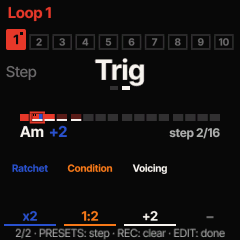
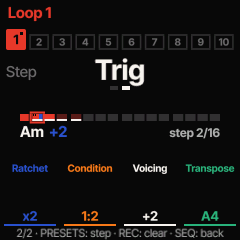
Docs: the loop editor while it plays, Transpose, the voicing's snap, the held ratchet (LOOPER, MANUAL, INTEGRATION, the 0.18 notes, HISTORY, the editor's two pictures)

Changed region(s): [[0.0583, 0.875, 0.9917, 1.0], [0.7583, 0.6708, 0.9917, 0.7292]]

diff --git a/docs/LOOPER.md b/docs/LOOPER.md
@@ -314,9 +314,9 @@ version 1, and 0.14 .. 0.17 read an edited loop's record as any other (`tests/cr
 | EDIT tap in the PLAY menu | opens it (`cr_loop_ed_open`), **at any Quantize setting** (the first build refused a loop with Quantize none: `set Quantize to edit`). Refused: a slot switch on its way (`a slot is on its way`); a capture open (`end the take first`). An empty slot: an empty pattern of the set Length (Free: a bar, 16 steps; more than 64 steps: its first whole bars within 64), which is the slot empty again if nothing is entered |
 | PRESETS | the **step cursor**, a step a detent, wrapping at the loop's end (`cu_ledit_move`). **GLO held + PRESETS**: 8 steps a detent, wrapping the same way. Never the slot, never the chord sound, while the editor is open. (Until 2026-10-13 the cursor was SELECT and KNOB 1) |
 | SELECT | the editor's **page**, clamped: 1 **Step**, 2 **Trig** (`cu.le_page`, the first whenever it opens). The page's name stands where the record mode does, with the picker's two marks; the bottom line begins `1/2` / `2/2` |
-| ALGORITHM | the selected step's **voicing**, on both pages (the same value as Trig's KNOB 3; on the Step page, which has no cell for it, the message `step voicing: +2`) |
+| ALGORITHM | the selected step's **voicing**, on both pages (the same value as Trig's KNOB 3; on the Step page, which has no cell for it, the message `step voicing: +2`). **GLO held + ALGORITHM** (or + Trig's KNOB 3) **snaps between Follow and 0** (2026-10-11, the owner: "below -12 is fine, but let's make it so you can hold GLO key and turn voicing to snap to Follow or 0"): from Follow a turn either way gives 0, from 0 a turn either way gives Follow; from any other value clockwise gives 0, the other way Follow; one snap a turn event, however fast the knob (`cu_ledit_voic`'s `snap`). GLO + ALGORITHM is the bass level everywhere else: **not inside the editor**, where the snap takes its place (the bass level: the BASS layer, or GLO + ALGORITHM outside the editor) |
 | OCT- / OCT+ | the **octave**, exactly as on the view (the popup, -2 .. +2): what is played into a step next is entered there. They closed the editor until 2026-10-13 |
-| the keys | they play, as on the view (auditioned by the chord engine). A gesture's end writes its chord INTO the selected step, replacing its notes: the first key of a new push (no gesture open) clears, the keys of one push add up (`crl_ed_write`, `ed_w`). **By side** (3y9's rule): a bass-side note (Split Bass) replaces the step's bass-side notes, anything else the chord side. The new notes start on the step's tick and are **as long as the step's notes were** (one step on an empty step) |
+| the keys | they play, as on the view (auditioned by the chord engine). A gesture's end writes its chord INTO the selected step, replacing its notes: the first key of a new push (no gesture open) clears, the keys of one push add up (`crl_ed_write`, `ed_w`). **By side** (3y9's rule): a bass-side note (Split Bass) replaces the step's bass-side notes, anything else the chord side. The new notes start on the step's tick and are **as long as the step's notes were** (one step on an empty step). **Only what the player plays is written, while the loop plays as when it is stopped** (below, "What goes into a step") |
 | | **The cursor stays on the step** (it does not advance as Step entry does; an Elektron's grid recording stays on the selected trig too): an editor's step is tried, heard and tried again. PRESETS moves on |
 | REC tap | clears the selected step (`cr_loop_ed_clear`): its notes and its ratchet, condition, chance and voicing. No recording in the editor |
 | **page 1 "Step"** | |
@@ -327,14 +327,73 @@ version 1, and 0.14 .. 0.17 read an edited loop's record as any other (`tests/cr
 | **page 2 "Trig"** | |
 | KNOB 1 | **Ratchet**: Off, x2, x3, x4 |
 | KNOB 2 | **Condition**: Always; 1:2, 2:2; 1:3, 2:3, 3:3; 1:4, 2:4, 3:4, 4:4; 1st; not 1st |
-| KNOB 3 | **Voicing**: Follow, -12 .. +12 (as ALGORITHM) |
-| KNOB 4 | nothing |
+| KNOB 3 | **Voicing**: Follow, -12 .. +12 (as ALGORITHM; GLO held: Follow / 0) |
+| KNOB 4 | **Transpose** (2026-10-11): the selected step's notes a semitone a detent, up or down (`cr_loop_ed_transpose`; below, "Transpose") |
 | LOOP tap | play / stop from the loop's start, as ever; the cursor does not follow the playback, the playhead shows it. A length changed under the playhead: the playhead where it is in the new cycle (`crl_ed_renorm`) |
 | REC held | the looper's undo, as outside (below) |
-| GLO tapped | nothing (the keys play; GLO held is the shift of PRESETS and Steps above) |
+| GLO tapped | nothing (the keys play; GLO held is the shift of PRESETS, Steps and the voicing above) |
 | SEQ / EDIT tapped, EDIT or SEQ held again | close it, back to the PLAY menu (`cr_loop_ed_close`), however it was opened: nothing to confirm, an edit is applied when it is made. A knob turned while EDIT or SEQ is still down after closing it by the hold does nothing (it would be the PLAY menu's: PRESETS there is the slot). **No METRO layer from the editor**: SEQ held there closes it, and SEQ held + a knob inside the hold time leaves the knob the editor's (`cu_activity`; `tools/emu/scripts/cr_seq.txt`) |
 | **LOOP held** | the PLAY menu: the editor closes, the menu stays (the owner, 2026-10-11: "from the Sequencer, holding the play key should enter the Play Menu, not return to home"; until then it closed the menu with the editor). A knob turned with LOOP still down is the menu's (PRESETS: the slot), never the sound's. A LOOP tap is play / stop as ever, the editor stays |
 | HOME | the view: the editor and the menu close (it went back to the PLAY menu until 2026-10-11; with SEQ's cycle HOME is "home" here as everywhere). Another layer, a revert: the same |
+
+### What goes into a step, and what the screen names (2026-10-11)
+
+The owner, with the editor on the unit: "In the sequencer if playback is going on then when I enter keys to a selected
+step, it also ends up combining the playing notes into that step. In this case it should only enter the keys I'm
+playing, not the notes playing from the sequence. Also the name of the chord changes during playback, I would like this
+to always show chord/notes of the selected step. Then during playback in the sequencer, show the name of the playing
+step chord/notes to the left of the Page Name (don't offset the page name, also don't show voicing here since that
+would overlap the page name probably) in blue."
+
+- **The loop's own notes cannot reach a step.** The editor writes what the engine's gesture hook reports
+  (`cr_out_t.gesture` -> `cr_loop_gesture` -> `crl_ed_write`), and that hook is raised for keyed voices only: a loop
+  voice never raises it (`crx_gesture`: `v->loop`), and MIDI in plays the parts, not the chord engine. So a chord held
+  over the loop's chords and let go is in the step alone (`tests/cr_loop_test.c s_edkeys`, `cr_loop_edplay.txt`).
+- **What did reach it: a latched chord.** With LATCH (Sticky) or a Perform mode's Hold a chord does not end when its
+  keys go up: it sounds on over the loop until the next press. The editor wrote a chord at its END, so with a latch
+  the chord just played was not in the step; it arrived a press later, in whichever step was selected by then: a step
+  got the chord that was still sounding, not the keys being played, and the keys being played went into the step
+  after. **Now the engine says when a latched gesture's keys are up** (`CR_G_KEYUP`, a third value of the hook's `on`,
+  from `cr_key_ex`'s release) **and the editor writes the step then**, as at an unlatched key's release; the later end
+  of that chord writes nothing (`open[].used` 2), and the next push replaces as ever. A take is not touched: it
+  records a latched chord with the length it sounded. Nothing of the sound changes: the hook only reports.
+- **Checked and left as they are**: Split Bass (a bass-side key replaces the step's bass side only, by 3y9's rule);
+  LOCK with latched chord keys (a root alone is one chord in the step); the arp running (the gesture is the chord, not
+  the arp's notes). **Free play style**: a chord key pressed with no root held re-sounds the last root (the style's
+  own rule), and that chord is a gesture like any other: it is written, and a root pressed while it sounds adds to
+  the same push. That is what was played and heard; it is not changed here.
+- **The name line** (the chord under the grid, its blue voicing, `step n/m`) **is the selected step's, playing or
+  stopped**: a chord by its name, a single note or a bass-side note by its note, several things in one step by the
+  last one written, an empty step `-`. **While a root key is down** it names the chord being played instead (the
+  player's own voice: `cr_snap.pl_*`, the last keyed voice still sounding), and goes back to the step when the keys
+  are up, a latch or not. Until then it showed the engine's "chord on display" unless that was a loop voice's: with a
+  key held over a playing loop it flipped between the played chord and the step's old one at every loop note, and
+  with a latched chord it showed that chord between the loop's notes.
+- **The playing name**: while the loop plays, **the chord or the note the loop struck last, in the role blue, at the
+  left of the page's name** (`cr_screen_t.lm_now`, `cr_draw.c cr_lm_now`). The page's name ("Step" / "Trig") does not
+  move; no voicing. Left-aligned at x 6 on the neighbours' baseline, 78 px wide at most: "Step", the wider name, begins
+  at x 90, so 6 px stay clear. Bold, the largest of 13 / 11 / 10 px that fits: 13 px for nearly all names, 11 px for
+  about one in twenty, 10 px for the few longest (`G#madd4 JAZZ`: 95 px at 13, 73 at 10): none is cut. On the Trig
+  page it stands where the left neighbour ("Step") is, which is not drawn while a name shows; the two marks under the
+  page's name still show the pages. While the page's name slides (160 ms after SELECT) it is not drawn.
+  **What it names is what sounded** (`cr_loop_t.hit_root / hit_qx`, set in `crl_hit`): a step its condition or chance
+  kept silent does not change it; of a step with several things the last one struck (the name line's rule). **It
+  stays until the next step that sounds** (a chord alone in a bar would otherwise flash for a sixteenth, at Rate x4 for
+  31 ms), is empty before the loop's first note and gone when the loop stops. Cost: three byte stores a hit in the
+  ISR; the screen hashes `lm_now` apart and a new name redraws one strip (rows 40 .. 79), on top of the grid's rows the
+  playhead redraws at every step anyway.
+
+**Transpose** (Trig's KNOB 4; the owner: "this should move all the notes up or down, so if my chord is C maj and I
+transpose it up one, now it's a C# maj"). An edit of the SELECTED step: each detent moves every note that starts in it
+(chord roots, single notes, bass-side notes) a semitone, by rewriting the events' roots; nothing new is stored and
+nothing else moves (the quality, the extensions, the part, the times, the lengths, the step's four properties, the
+other steps). **Chromatic, whatever Key Mode says**: the loop's roots are stored absolute, and this is an edit of
+stored notes, not a way of playing them. **The range is 0 .. 127 for every note of the step**: a detent that would
+take one of them out is refused whole, no note moves and nothing wraps (`no higher` / `no lower`); a fast turn goes as
+far as it can. The cell shows the root note of the step's name with its octave (`C#4`), and while it is hot (800 ms)
+how far this turn has moved it (`+2`); an empty step `-`. It is an edit like the others: the first one makes the loop
+one layer, the loop is marked changed, no undo of its own (turn it back; -1 after +1 gives the record byte for byte).
+A note sounding when it is turned ends at its old pitch.
 
 ### Ratchet, condition, chance, voicing (2026-10-13; `crl_data_t.st`, `cr_loop.c crl_play_ev`)
 
@@ -345,8 +404,16 @@ can be set); clearing a step clears them; replacing a step's notes keeps them.
 
 - **Ratchet** (x2, x3, x4): the step's notes strike that many times, evenly inside ONE step (12, 8, 6 ticks apart).
   Each hit is as long as the slice; if Note len is a part of a step, that part of the slice (x2 on a 1/2-step note:
-  two hits of 6 ticks, 12 apart; never under a tick). A note longer than a step ratchets inside its own step and is
-  silent after it: a ratchet replaces the note's length.
+  two hits of 6 ticks, 12 apart; never under a tick). **A note longer than a step: the last hit holds to the note's
+  end** (2026-10-11; the owner: "if length is greater than one step, the last trig of ratchet then holds for the
+  length. So if ratchet is 2 and step length is 2, the sequence would be note of length 0.5, then after that a note of
+  1.5; if the length was 4 and the ratchet was 4, you get 3 notes that are 0.25 length, then the 4th note is a length
+  of 3.25 steps"): the hits before the last are a slice long, the last is Note len less the slices before it (x2 on 2
+  steps: 12 then 36 ticks; x4 on 4: 6, 6, 6 then 78; x3 on 2: 8, 8 then 32). Until then a ratchet replaced the note's
+  length: a long note ratcheted inside its step and was silent after it. Note len of a step or less: as it was. The
+  held last hit sounds over the following steps like any long note (they still play, on their own voices), across
+  the loop's end too, and the grid already shows it: the white bar and the dark cells follow Note len, a ratchet or
+  not.
 - **Condition**: `A:B` plays on pass A of every B passes of the loop, **counted from when the loop starts playing**
   (LOOP from stopped, a take committed into playback, a slot taken at the end of a cycle: pass 1 again); `1st` only on
   the first pass, `not 1st` on every other.
@@ -374,8 +441,11 @@ need 14, and widening `crl_ev_t` would cost 512 x 2 bytes in each of the two cop
 **In the audio ISR** (estimated from the source, not yet counted in the device's disassembly): per event fired, one
 divide by the constant 24 (the step), two table bytes and two tests, about 15 instructions when the step has nothing;
 a condition adds a table word and a shift (no division: the pass is kept mod 12, which 2, 3 and 4 divide); a chance
-adds two multiplies and a compare; a ratchet about 20 once, then each further hit is one `cr_loop_event_v`, the cost
-of any chord's note-on. Per tick, the voices' loop (8) has one more compare for a voice in use. **A ratchet stays on
+adds two multiplies and a compare; a ratchet about 20 once (a subtract and a multiply more since the last hit holds:
+its length is worked out once, when the event fires, and kept in the voice: `pv[].last`), then each further hit is one
+`cr_loop_event_v`, the cost of any chord's note-on. Every hit, a ratchet's or a plain note's: one test and a load
+more for its length (`hits ? gate : last`), and three byte stores for the editor's playing name. Per tick, the voices'
+loop (8) has one more compare for a voice in use. **A ratchet stays on
 its one loop voice** (`pv[].used` 2 = waiting for the next hit, the chord kept in `pv[]` so a hit never reads an event
 that an edit or a slot switch took away): it can never hold more voices than a plain note, and a stop, a clear of the
 step, a Replace cut or a stolen voice ends its hits.
@@ -388,15 +458,14 @@ number for each step's roll. `cr_loop_seed` sets it: the same seed and timing gi
 bar a row, **four rows of 16: all 64 steps at a glance** (3/4 and 6/8: four rows of 12). A step with a note starting
 in it is filled, coloured by its velocity (below); a step a longer note still sounds in (half of it or more) is dark red (`lm_lane[1]`); an empty one grey;
 the grid ends where the loop ends (`lm_steps`). The cursor is the red outline; in the editor its blink is bright /
-dim (`lm_ed`), never gone. What a cell carries is under "The grid's cells" below. While the loop plays, the step being played is white (grey when empty:
-`CR_LM_PLAY` in `lm_pos`; only its rows' strips are redrawn). Under the grid the selected step's chord, big, and `step
-5/16`; the cells Note len / Steps / Chance / Velocity (page 1) or Ratchet / Condition / Voicing (page 2); the bottom
-line `1/2 · PRESETS: step · REC: clear · SEQ: back` (`EDIT: done` until 2026-10-11; both keys go back to the PLAY
-menu, the line names the one that opens the editor from the view: `EDIT/SEQ` does not fit `foot`'s 47 characters). **A take longer than 64 steps is paged**: the cursor walks all its
-
-5/16`, and after the chord the step's voicing in blue when it is not Follow (`Dm7 +3`); the cells Note len / Steps / Chance / Velocity (page 1) or Ratchet / Condition / Voicing (page 2); the bottom
-line `1/2 · PRESETS: step · REC: clear · EDIT: done`. **A take longer than 64 steps is paged**: the cursor walks all its
-steps and the grid shows the 64 the cursor is in (`step 70/128 · p2`); one page was chosen over a scrolling row
+dim (`lm_ed`), never gone. What a cell carries is under "The grid's cells" below. While the loop plays, the step
+being played is white (grey when empty: `CR_LM_PLAY` in `lm_pos`; only its rows' strips are redrawn), and what the loop
+struck last is named in blue at the left of the page's name (above, "The playing name"). Under the grid the selected
+step's chord, big, with its voicing after it in blue when that is not Follow (`Dm7 +3`), and `step 5/16`; the cells
+Note len / Steps / Chance / Velocity (page 1) or Ratchet / Condition / Voicing / Transpose (page 2); the bottom line
+`1/2 · PRESETS: step · REC: clear · SEQ: back` (`EDIT: done` until 2026-10-11; both keys go back to the PLAY menu,
+the line names the one that opens the editor from the view: `EDIT/SEQ` does not fit `foot`'s 47 characters). **A take
+longer than 64 steps is paged**: the cursor walks all its steps and the grid shows the 64 the cursor is in (`step 70/128 · p2`); one page was chosen over a scrolling row
 because a pattern fits it whole, and a page turns only for loops no step sequencer made.
 
 **Layers and undo.** The editor works on what sounds (the live events). Its **first edit makes the loop one layer**
@@ -438,7 +507,7 @@ shrink from 5 and 8 px to 3 and 3 and nothing is cut.
 
 **Cost**: 104 bytes of POOL (`cu_le_map`: 32 before the cells' byte a step; 24 before the notch's map); in RAM the steps' table, 128 bytes in each of the
 two `crl_data_t` (the loop and the staged slot), 64 for the voices' ratchet state and a few bytes of state: 352 in all
-(RAM 80168 -> 80520 B, POOL 326600 -> 326608 B, flash +3520 B on 2026-10-13); the grid's cells: POOL 314600 -> 314744 B (the map +72, the screen `cu_scr` +72: `lm_cell`, a fifth lane, `lm_bar`, `lm_ed`), RAM 80532 -> 80612 B (the colours), flash +992 B; no copy of the loop. A frame, on the emulator (estimates, `cr_loop_trig.txt` / `cr_loop_step.txt`, host instructions a UI frame): the average +0.3 % and +0.6 %, the worst frame +0.1 % and +1.6 %. The UI rebuilds its view only
+(RAM 80168 -> 80520 B, POOL 326600 -> 326608 B, flash +3520 B on 2026-10-13); the grid's cells: POOL 314600 -> 314744 B (the map +72, the screen `cu_scr` +72: `lm_cell`, a fifth lane, `lm_bar`, `lm_ed`), RAM 80532 -> 80612 B (the colours), flash +992 B; the playing name, Transpose, the voicing's snap and the held last hit (2026-10-11): POOL 314744 -> 314764 B (`lm_now` 16, the draw cache's hash 4), RAM unchanged (the new bytes are in padding), flash +784 B; no copy of the loop. A frame, on the emulator (estimates, `cr_loop_trig.txt` / `cr_loop_step.txt`, host instructions a UI frame): the average +0.3 % and +0.6 %, the worst frame +0.1 % and +1.6 %. The UI rebuilds its view only
 when the events change (`crl.gen`) or the cursor moves, with the IRQ off for the two passes; the operations run with
 the IRQ off from the UI thread, as `cu_rec`'s stop does.
 

diff --git a/docs/MANUAL.md b/docs/MANUAL.md
@@ -481,7 +481,7 @@ off as it was at your last save** (SAVE held) when you switch on (until 0.17 it 
 - **ALGORITHM** turns through off (`00 off`) and then the sounds of the bass part's engine. Its first sound is
   `00 INIT`, the engine's plain starting sound.
 - **KNOB 2** moves the bass register, -2 to +4 octaves.
-- **OPT + ALGORITHM** is the bass level.
+- **OPT + ALGORITHM** is the bass level (not in the loop editor, where it sets the step's Voicing to `Follow` or `0`).
 
 Hold BASS for the **BASS layer**:
 
@@ -794,13 +794,17 @@ PLAY menu EDIT is the sound editor, as ever.) SEQ does not open the editor from 
 sound editor, and not while a take is being recorded (`end the take first`).
 
 <img src="manual/loop-editor.png" width="240" alt="The loop editor, page Step: a row of sixteen steps, three red, the second outlined, a white bar along its foot and the next three; Am, step 2/16; cells Note len 4, Steps 16, Chance 100%, Velocity 100">
-<img src="manual/loop-editor-trig.png" width="240" alt="The loop editor, page Trig: the same row, the second step with two ticks at its top and a blue strip at its right; Am +2 under the grid; cells Ratchet x2, Condition 1:2, Voicing +2">
+<img src="manual/loop-editor-trig.png" width="240" alt="The loop editor, page Trig: the same row, the second step with two ticks at its top and a blue strip at its right; Am +2 under the grid; cells Ratchet x2, Condition 1:2, Voicing +2, Transpose A4">
 
 The grid is the same as in Step entry: **sixteenth-note steps, 16 to a row, four rows: all 64 steps of a pattern on one
 screen.** A red step has a chord or a note starting in it. A dark red step has nothing starting in it, but a longer
 note from an earlier step is still sounding there. Grey steps are empty. The outlined step is the selected one (the
 outline pulses, bright and dim); its chord is named under the grid, and if the step has a Voicing of its own, that
-follows the name in blue: `Am +2`. While the loop plays, the step being played lights up white.
+follows the name in blue: `Am +2`. **That name is always the selected step's**, whether the loop plays or not; only
+while you hold keys down does it show the chord you are playing instead. While the loop plays, the step being played
+lights up white, and **the chord or note the loop is playing is named in blue at the left of the page's name**
+(`Step` or `Trig`, which stays where it is). It stays there until the next step that sounds, and goes when the loop
+stops.
 
 What a step shows:
 
@@ -819,8 +823,8 @@ What a step shows:
 | --- | --- |
 | PRESETS | the **step**: the cursor, a step a click, round and round. The screen shows `step 2/16` and the chord in it. **GLO held + PRESETS** jumps 8 steps a click. (PRESETS never changes the sound or the slot while the editor is open) |
 | SELECT | the **page**: `Step` and `Trig`. The page's name is at the top, the bottom line begins `1/2` or `2/2` |
-| ALGORITHM | the selected step's **Voicing**, on either page |
-| the keys | play a chord or a note: it **replaces** what is in the selected step, and you hear it. Keys pressed together all go into the step. The cursor stays on the step; turn PRESETS to move on |
+| ALGORITHM | the selected step's **Voicing**, on either page. **GLO held + ALGORITHM** jumps between `Follow` and `0`: from either one a click gives the other; from any other value a click clockwise gives `0`, the other way `Follow`. (Outside the loop editor GLO + ALGORITHM is the bass level; in the editor it is this) |
+| the keys | play a chord or a note: it **replaces** what is in the selected step, and you hear it. Keys pressed together all go into the step. **Only what you play goes in**, also while the loop plays: never the loop's own notes. The step has the chord as soon as you let the keys go, with LATCH on too. The cursor stays on the step; turn PRESETS to move on |
 | OCT-, OCT+ | the **octave**, as on the main screen: what you play into a step next is entered there |
 | REC tap | **clears** the selected step, its notes and its settings (REC does not record here) |
 | **Page 1, Step** | |
@@ -831,7 +835,8 @@ What a step shows:
 | **Page 2, Trig** | |
 | KNOB 1 | **Ratchet**: Off, x2, x3, x4: the step's notes are struck two, three or four times within the one step |
 | KNOB 2 | **Condition**: on which passes of the loop the step plays: Always, `1:2` `2:2`, `1:3` `2:3` `3:3`, `1:4` .. `4:4`, `1st`, `not 1st` |
-| KNOB 3 | **Voicing**: Follow, or a voicing of its own, -12 to +12 (the same as ALGORITHM) |
+| KNOB 3 | **Voicing**: Follow, or a voicing of its own, -12 to +12 (the same as ALGORITHM; with GLO held: `Follow` / `0`) |
+| KNOB 4 | **Transpose**: moves the selected step's notes up or down, a semitone a click. A C major chord one click up is C# major. The cell shows the step's root note (`C#4`), and while you turn, how far you have moved it (`+1`) |
 | LOOP tap | play / stop, as ever, so you hear the edits in place. The cursor does not follow the playback; the white step does |
 | REC held | the looper's undo (see below) |
 | SEQ, EDIT (tap or hold), LOOP held | close the editor, back to the PLAY menu. Nothing to confirm: an edit is done when you make it. The bottom line says `SEQ: back` |
@@ -844,7 +849,15 @@ into a step keeps them.
 
 - **Ratchet.** x2, x3 or x4 strikes the step's notes that many times, evenly spaced inside the one step. Each strike
   is as long as its share of the step; with a Note len of `1/2` it is half of that, so the strikes are short with gaps
-  between them. A ratcheted step does not sound on past its own step, whatever its Note len.
+  between them. **With a Note len longer than one step, the last strike is held to the end of the note.** Ratchet x2
+  with Note len 2: a note half a step long, then one a step and a half long. Ratchet x4 with Note len 4: three notes
+  a quarter of a step long, then a fourth that lasts three and a quarter steps. The held note sounds over the steps
+  after it, as any long note does.
+- **Transpose.** It changes the notes stored in the step: every chord and note that starts in it, the bass note too,
+  moves by the same number of semitones. Nothing else changes: the chord type, its length, its Ratchet, Condition,
+  Chance and Voicing stay. It always moves by semitones, also with Key Mode on (Key Mode decides what the keys play,
+  not what is already in a loop). No note can go below the lowest or above the highest MIDI note: a click that would
+  take one there does nothing (`no higher`, `no lower`). There is no undo for it; turn it back.
 - **Condition.** `1:2` plays on the first of every two passes of the loop, `2:2` on the second; `1:3`, `2:3`, `3:3`
   and `1:4` .. `4:4` the same over three and four passes. `1st` plays only the first time round, `not 1st` every time
   but the first. The passes are counted from the moment the loop starts playing: stop and start, and it is pass 1
@@ -875,7 +888,7 @@ Things to know:
   screen follows (`step 70/128 · p2`). KNOB 2 can make such a loop shorter, not longer.
 - **A step loop made with an earlier 0.18 test build**, whose steps were as long as the Quantize value, plays as it
   did. Here it shows on the sixteenth grid: quarter-note steps are a chord on every fourth step, 4 steps long.
-- **An empty step**: its Note len, Chance and Velocity cells, and the three on the Trig page, show `-`.
+- **An empty step**: its Note len, Chance and Velocity cells, and the four on the Trig page, show `-`.
 - **An empty slot** opens as an empty pattern of the set Length (Free: one bar, 16 steps; 8 or 16 bars: 64 steps).
   Leave without entering anything and the slot is empty again.
 - **Split Bass:** a note played on the bass side replaces the step's bass notes only, a chord on the other side only
@@ -1570,7 +1583,7 @@ SELECT: the next lane. KNOB 1 to KNOB 4: the lane's values. PRESETS: the engine 
 | MASTER | volume | | volume | volume |
 | SELECT | tempo | click level | the layer's picker (KEY layer: its page; LOCK layer: tempo) | the lane |
 | PRESETS | chord sound | chord engine | chord sound (PLAY menu: slot) | the engine picker |
-| ALGORITHM | bass sound | bass level | bass sound (PLAY menu: record mode) | bass sound |
+| ALGORITHM | bass sound | bass level (loop editor: the step's Voicing, `Follow` / `0`) | bass sound (PLAY menu: record mode; loop editor: the step's Voicing) | bass sound |
 | KNOB 1 | voicing (Full keyboard: the octave) | split point | the layer's first cell | the lane's first value |
 | KNOB 2 | bass register | | second cell | second value |
 | KNOB 3 | performance parameter | | third cell | third value |

diff --git a/docs/HISTORY.md b/docs/HISTORY.md
@@ -790,3 +790,51 @@ Tests: `tests/cr_draw_test.c` (the bar's widths, none elsewhere, the strip's col
 brightness, the ticks, the dim cursor, the voicing and its fit), `tests/cr_loop_test.c` (the map); the manual's two
 editor pictures regenerated. Not tested: the look on the unit's panel (the plum and the dim strips at its gamma and
 viewing angle), 3/4 and 6/8 grids beyond the shared code, the MONO palette.
+
+**2026-10-11, the loop editor while it plays; Transpose; the voicing's snap; a ratchet's held last hit (0.18 dev,
+built, not flashed).** The owner, after using the sequencer on the unit: "In the sequencer if playback is going on then
+when I enter keys to a selected step, it also ends up combining the playing notes into that step. In this case it
+should only enter the keys I'm playing, not the notes playing from the sequence. Also the name of the chord changes
+during playback, I would like this to always show chord/notes of the selected step. Then during playback in the
+sequencer, show the name of the playing step chord/notes to the left of the Page Name (don't offset the page name, also
+don't show voicing here since that would overlap the page name probably) in blue. Also in sequencer on the second trig
+page for Knob 4 which is empty, let's make this a transpose ... For the voicing follow selection, below -12 is fine,
+but let's make it so you can hold GLO key and turn voicing to snap to Follow or 0. Ratchet playing inside the step is
+fine, but let's make it so if length is greater than one step, the last trig of ratchet then holds for the length."
+
+*The notes in the step.* The loop's own notes could not be found entering a step, and cannot: the editor writes what
+the engine's gesture hook reports, a loop voice never raises it, and MIDI in plays the parts, not the chord engine.
+Tried on main with the loop playing and a chord held over its chords: no latch, the arp, Advanced, Key Mode with Split
+Oct (the owner's settings record of 2026-10-10), Split Bass, LOCK: the step got the played chord alone each time. What
+did put a chord that was not being played into a step, and makes the name line change during playback, is **a latch**
+(LATCH / Sticky, or a Perform mode's Hold): a latched chord does not end when its keys go up, the editor wrote at the
+gesture's end, so the chord arrived at the next press, in whichever step was selected then, while the latched chord,
+still sounding over the loop, was what the name line showed between the loop's notes. Taken as the cause; if the owner
+had no latch on, it is not found. The fix is at the cause: the engine reports a latched gesture's key-up
+(`CR_G_KEYUP`), the editor writes then. Free play style's re-sounded chord (a chord key with no root held) is still
+written, as it sounds; left alone.
+
+*The choices.* The name line: the selected step's always; the played chord only while a root key is down (the
+player's own voice, `cr_snap.pl_*`). The playing name: what the loop STRUCK last (`crl.hit_*`, not the step's stored
+events: a step silenced by its condition or chance is not named), kept until the next step that sounds rather than
+blanked on empty steps (a lone chord would flash for a sixteenth), empty before the first note and when stopped;
+left-aligned at x 6, 78 px at most, 13 / 11 / 10 px bold by fit (`G#madd4 JAZZ` at 10 px, whole); on the Trig page it
+takes the left neighbour's place ("Step" is not drawn while a name shows; the alternative, two lines at the left, was
+not built). Transpose: 0 .. 127 for every note of the step or the detent is refused whole; chromatic with Key Mode on;
+the cell the root note, hot: the turn's sum. The snap: Follow <-> 0 from either by a turn either way, from another
+value clockwise 0, the other way Follow; inside the editor it takes GLO + ALGORITHM from the bass level. The ratchet:
+`last = Note len - (N - 1) slices` for a note longer than a step, worked out when the event fires (`pv[].last`, in the
+struct's padding); the record's format is untouched by all of it (Transpose rewrites roots; nothing new is stored).
+**A saved loop with a ratchet on a note longer than a step now sounds that note on** (it was silent after its step).
+
+Cost: flash +784 B (XIP 455460 -> 456244), POOL +20 B (314744 -> 314764, 91.5 %: `lm_now` 16, the draw cache 4), RAM
++0 (80612 B, 82.0 %: the new bytes fell in padding). The ISR: three byte stores and one test a hit. A UI frame on the
+emulator over 4.2 s of the editor playing (estimates, `cr_loop_edplay.txt`): the average +2.8 %, the worst +8 %; not
+counted on the unit. Tests: `tests/cr_loop_test.c` `s_ratlong` (the two examples and x3 on 2 steps in exact ticks at x1
+and x1/16, a step and under as before, over the next step, across the loop's end, a stop inside the held hit, the
+map), `s_transpose`, `s_edkeys` (no latch, LATCH, Arp with and without Hold: 31 of the new checks fail on 86d162f);
+`tools/emu/scripts/cr_loop_edplay.txt` in `test_cr.sh`; `tests/cr_draw_test.c` (the playing name: blue, nothing else
+moves, the longest names whole, the Trig page, one strip, the slide; the Transpose cell). The manual's two editor
+pictures regenerated. Not tested: anything on the unit (the blue name's legibility on the panel, the feel of the
+snap); the owner's actual settings at the time of his report; 3/4 and 6/8; the playing name with a take longer than
+64 steps beyond the shared code; Free play style in the editor.

diff --git a/docs/INTEGRATION.md b/docs/INTEGRATION.md
@@ -368,7 +368,7 @@ a button pressed during another's hold is that hold's combo (its release does no
 | FX | FX | main effect on/off (every part's sends: `fx.c fx_off`) | the knob row: SELECT = the page (Sends, Reverb 1, Reverb 2, Chorus, Delay 1, Delay 2, Drive: 0.18, docs/FX.md), the roots play; a FX tap in it = on/off (label "fx · on · 1/2" / "· off"), OCT+ closes; KNOB 1–4 the page's cells, Sends' four and KNOB 4 on an effect's first page the chord part's sends (on: FX on); no popups, the turned cell hot 800 ms |
 | ENV | BASS | bass on/off | the knob row: KNOB 1–4 BEHAVIOUR REGISTER SOUND LEVEL as cells (no popups, the turned cell hot); BASS held + EDIT = the bass sound's editor, + SAVE its saving |
 | LFO | LATCH | latch on/off (Sticky Keys; also holds a performed arp / pattern after the keys are released: Hold defaults off in every mode, an arp stops when the keys are up; Hold is STRUM's KNOB 4) | — |
-| GLO | OPT | Options (picker pages); in the PLAY menu: its keys play / loops (no Options from there); in the KEY layer: its keys pick / play | + SAVE, both held 1 s: the revert (docs/SETTINGS.md "Manual and automatic"); shift (momentary): OPT + KNOB 1 split point, + SELECT metronome level, + ALGORITHM bass level; the other knobs keep their job |
+| GLO | OPT | Options (picker pages); in the PLAY menu: its keys play / loops (no Options from there); in the KEY layer: its keys pick / play | + SAVE, both held 1 s: the revert (docs/SETTINGS.md "Manual and automatic"); shift (momentary): OPT + KNOB 1 split point, + SELECT metronome level, + ALGORITHM bass level (in the loop editor: the step's voicing, Follow / 0: docs/LOOPER.md); the other knobs keep their job |
 | EDIT | EDIT | the sound editor (again: leave; in the engine picker: keep its sound, close it) | the engine picker (a preview: OCT− cancels, OCT+ keeps): SELECT the engine, KNOB 1 its presets, KNOB 2 init; the roots and the chord keys play (0.18: until then the white roots chose the engine unless KNOB 4 set them to play) |
 | HOME | HOME | close the layer / page / menu (the view unchanged); on the view: next View **unless the view is locked** | **600 ms: the view menu** (`L_VIEW`, a picker: Chord · Keyboard · Notes · Geek Out · Scope by SELECT / the white roots, the last line "Lock: On / Off": KNOB 1 or the sixth white root; OCT+ ok, OCT− / HOME back; Settings v9 `view_lock`, the same view as Options > View) |
 | SAVE | SAVE | save sound (naming; in it: save, as OCT+) | **the global save** (0.18, `cu_gsave`: at the hold time, alone: the settings block, the session and the loop in RAM if they changed; "saved"; while a loop plays or a capture is open: "saves at stop"). GLO + SAVE held 1 s: **the revert** ("reverted"). Until 0.17: save / load / delete loops |

diff --git a/docs/releases/0.18.md b/docs/releases/0.18.md
@@ -341,3 +341,28 @@ In the loop editor (PLAY menu, EDIT) each step now tells you what is in it:
 - **A Ratchet is two, three or four small ticks** along the step's top.
 - **The step's Voicing follows its chord's name in blue** (`Dm7 +3`), on both pages, when the step has a voicing of
   its own. On Follow, and on a step with single notes only, nothing is added.
+
+## The loop editor: while it plays, Transpose, a held ratchet
+
+- **Only what you play goes into a step.** With LATCH on (or the arp's Hold), a chord played into a step was not
+  written when you let the keys go, because a latched chord keeps sounding. It was written at your next press, into
+  whatever step was selected by then. So a step got the chord that was still sounding instead of the keys you were
+  playing. Now the step has the chord as soon as the keys are up, latch or no latch. The loop's own notes never went
+  into a step and still do not.
+- **The name under the grid is always the selected step's**, also while the loop plays. Only while you hold keys down
+  does it show the chord you are playing. Before, it could show a latched chord, or flip between the played chord and
+  the step's as the loop went by.
+- **While the loop plays, its current chord or note is named in blue at the left of the page's name** (`Step` /
+  `Trig`). The page's name does not move. The name stays until the next step that sounds and goes when the loop
+  stops.
+- **Transpose is KNOB 4 on the Trig page.** It moves the selected step's notes up or down a semitone a click: C major
+  one click up is C# major. Chords, single notes and bass notes in the step all move. It works in semitones also with
+  Key Mode on. The cell shows the step's root note (`C#4`), and how far you moved it while you turn (`+1`).
+- **GLO held + the voicing knob jumps between `Follow` and `0`** (ALGORITHM on either page, KNOB 3 on the Trig page).
+  From any other value, clockwise is `0` and the other way is `Follow`. In the loop editor this replaces GLO +
+  ALGORITHM's bass level; everywhere else the bass level is where it was.
+- **A ratchet on a long note holds its last strike.** With a Note len longer than one step, the strikes before the
+  last are as short as before and the last one lasts to the end of the note. Ratchet x2, Note len 2: half a step,
+  then a step and a half. Ratchet x4, Note len 4: three quarter-step notes, then one of three and a quarter steps.
+  Until now a ratcheted step was silent after its own step whatever its Note len. With a Note len of one step or
+  less nothing changed. A loop you saved with a ratchet on a long note will now sound that note on.
